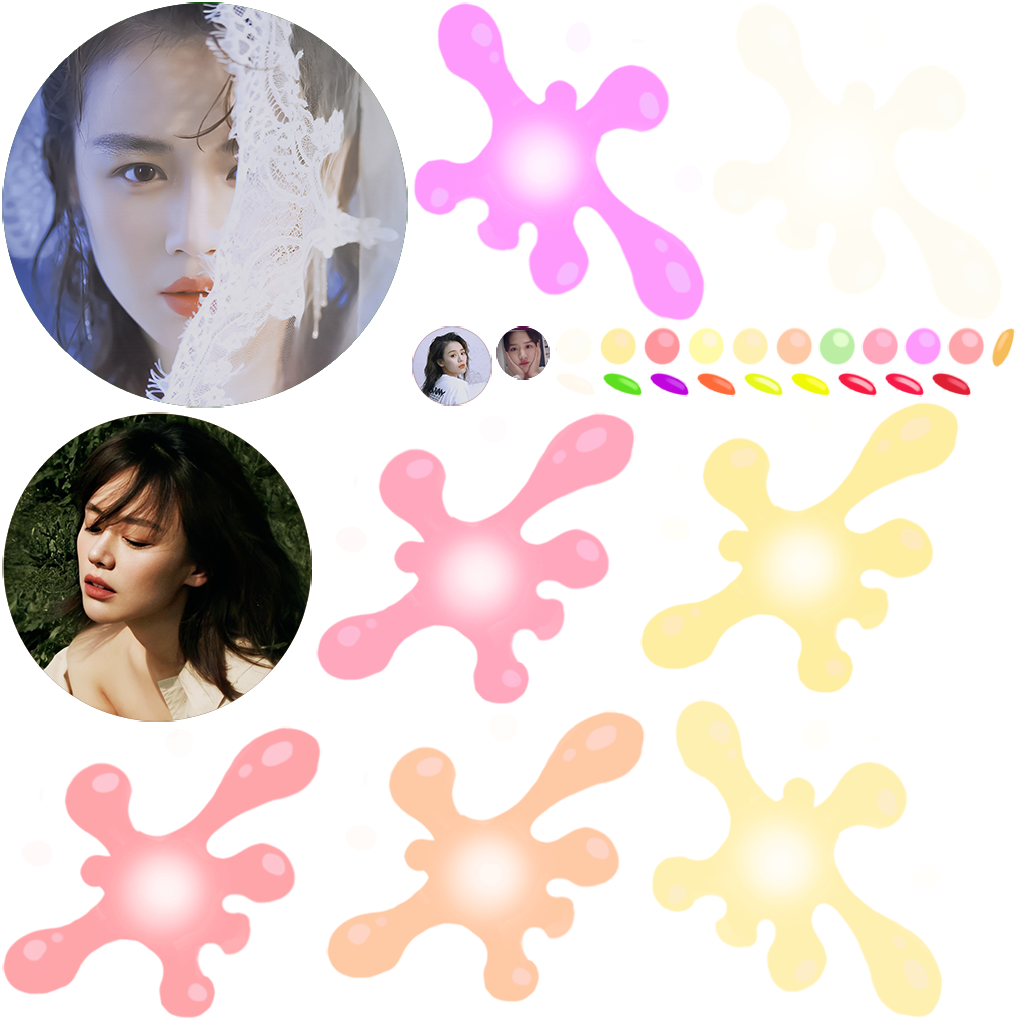
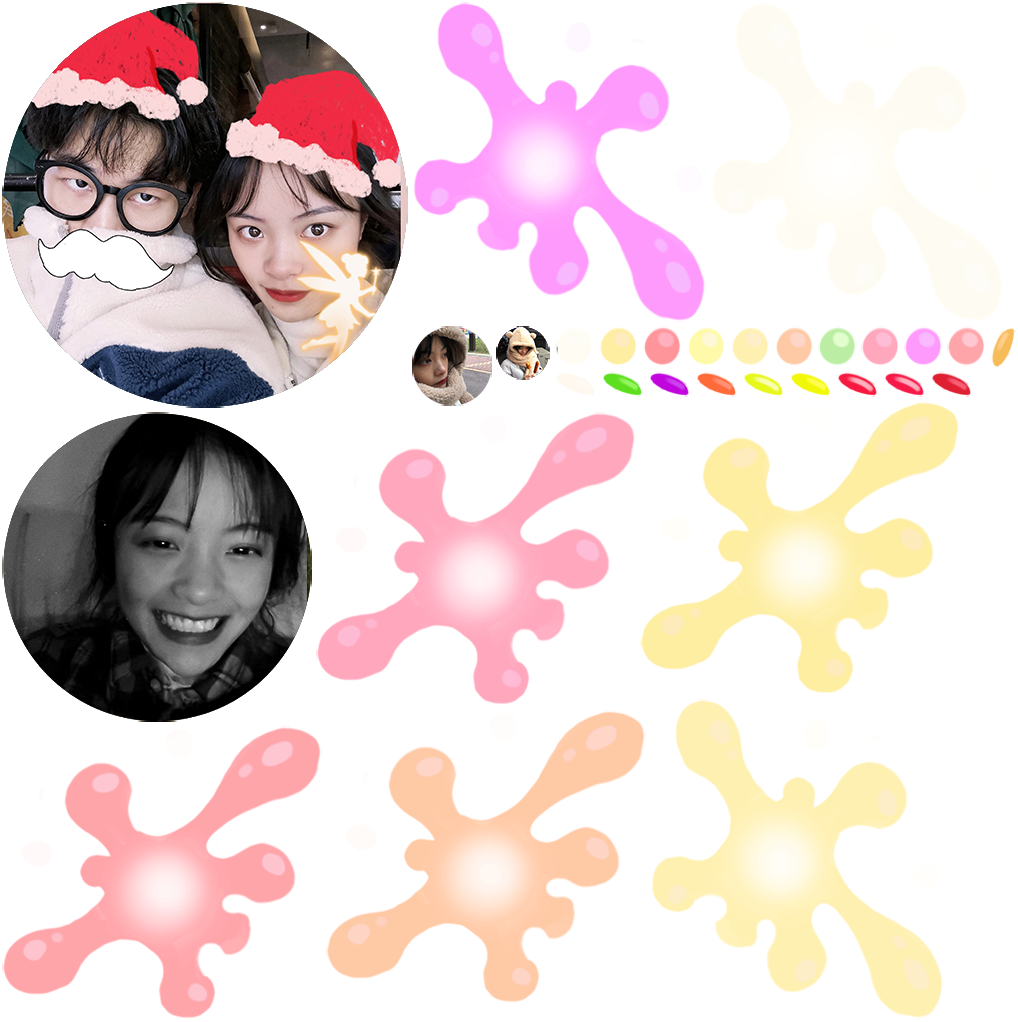
initial commit

Changed region(s): [[0.0, 0.0, 0.4263, 0.728], [0.3959, 0.3033, 0.5481, 0.3943]]

diff --git a/index.html b/index.html
@@ -4,7 +4,7 @@
 <head>
     <meta charset="utf-8">
 
-    <title>合成马思纯</title>
+    <title>合成小龙妍</title>
 
     <!--http://www.html5rocks.com/en/mobile/mobifying/-->
     <meta name="viewport" content="width=device-width,user-scalable=no,initial-scale=1, minimum-scale=1,maximum-scale=1" />
@@ -109,7 +109,7 @@
             //        console.log("window.navigator.language",window.navigator.language);
 
             if (window.navigator.language == "zh-CN" || window.navigator.language == "zh-cn") {
-                document.title = "合成马思纯";
+                document.title = "合成小龙妍";
             } 
 
 
